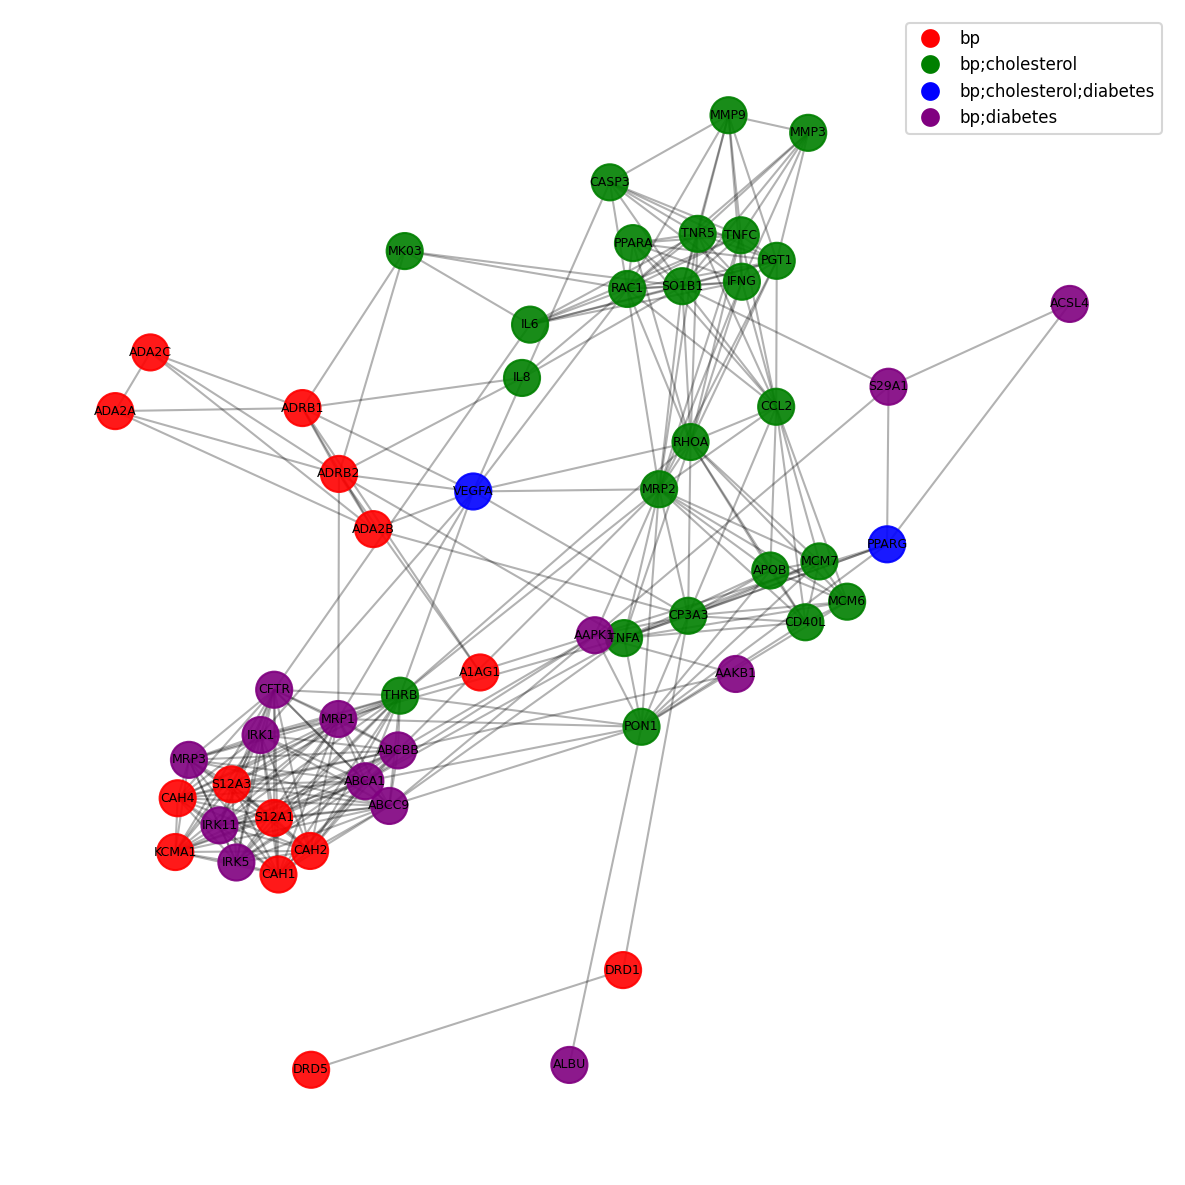
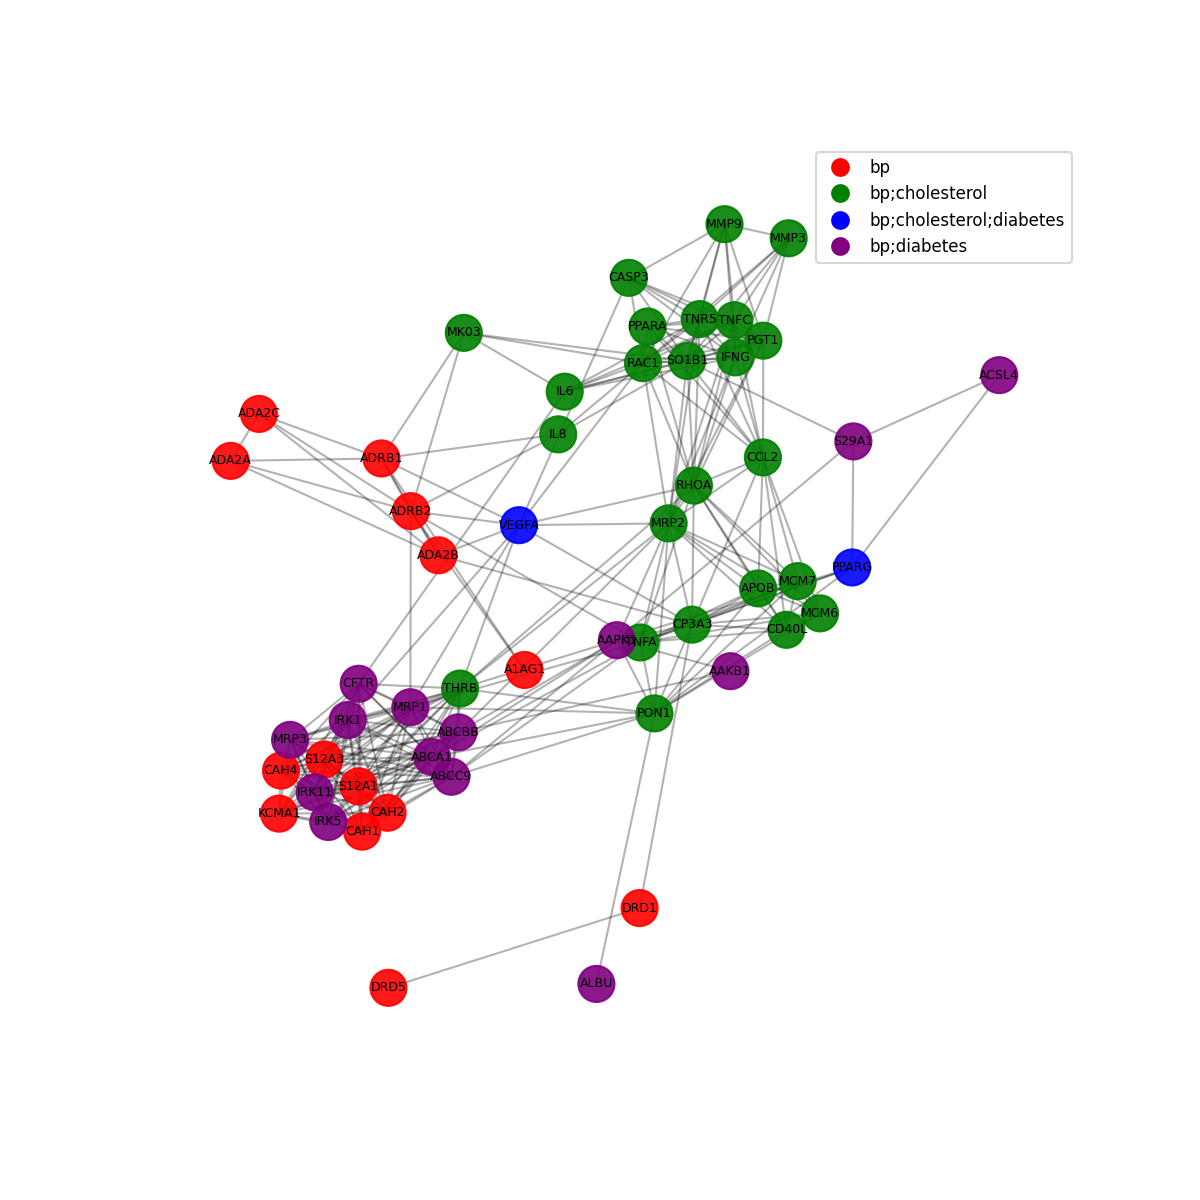
completed

diff --git a/Project4/pvalue.py b/Project4/pvalue.py
@@ -84,7 +84,7 @@ class PValue:
         Algorithm:
         1. Calculate Tsummary for actual protein pair
         2. For each bootstrap iteration:
-           - Sample random ligand sets of same sizes (with replacement)
+           - Sample random ligand sets of same sizes
            - Calculate Ti_summary for random sets
            - Count if Ti_summary >= Tsummary
         3. p-value = count / n_iterations
@@ -135,7 +135,7 @@ def parse_arguments():
     Parse command-line arguments for pvalue calculation.
     
     Inputs:
-        None (reads from sys.argv)
+        None 
     
     Returns:
         argparse.Namespace containing parsed arguments:
@@ -163,6 +163,6 @@ if __name__ == "__main__":
     pvalue_calc = PValue(args.drugs_csv, args.targets_csv)
     pvalue_calc.run_pvalue(args.n, args.r, args.protein_a, args.protein_b)
     
-    # Print ONLY the p-value (for autograder compatibility)
+    # Print the p-value
     print(pvalue_calc.p_value)
 

diff --git a/Project4/plot_graph.py b/Project4/plot_graph.py
@@ -96,10 +96,9 @@ def create_network_graph(edgelist_file, label_mapping, color_mapping, output_fil
     plt.legend(handles=legend_elements, loc='upper right', fontsize=8)
     
     plt.axis('off')
-    plt.tight_layout()
     
-    # Save figure with specified DPI (150)
-    plt.savefig(output_file, dpi=150, bbox_inches='tight')
+    # Save with exact specifications: 8x8 inches at 150 DPI
+    plt.savefig(output_file, dpi=150)
     plt.close()
     
     print(f"Network visualization saved to: {output_file}")
@@ -124,5 +123,3 @@ if __name__ == "__main__":
     # Create and save network visualization
     print("Creating network visualization...")
     create_network_graph(edgelist_file, label_mapping, color_mapping, output_file)
-    
-    print("Done!")

diff --git a/Project4/tanimoto.py b/Project4/tanimoto.py
@@ -38,7 +38,6 @@ class Tanimoto:
         self.output_path = output_path
         self.drugs_df, self.targets_df, self.drug_mapping_dict, self.fingerprint_dict = load_data(drugs_data_path, targets_data_path)
 
-    
 
     def shared_targets(self, drug_a, drug_b):
         """
@@ -64,7 +63,7 @@ class Tanimoto:
         2. Whether they share any protein targets
         
         Inputs:
-            None (uses data loaded in instance variables)
+            None - uses self stored vars
         
         Returns:
             None (stores results in self.tanimoto_output_df)

diff --git a/Project4/networkgen.py b/Project4/networkgen.py
@@ -103,6 +103,7 @@ class NetworkGen:
         print(f"Output: {output_file}")
 
 if __name__ == "__main__":
+    
     # Parse command-line arguments
     drugs_csv = sys.argv[1]
     targets_csv = sys.argv[2]
